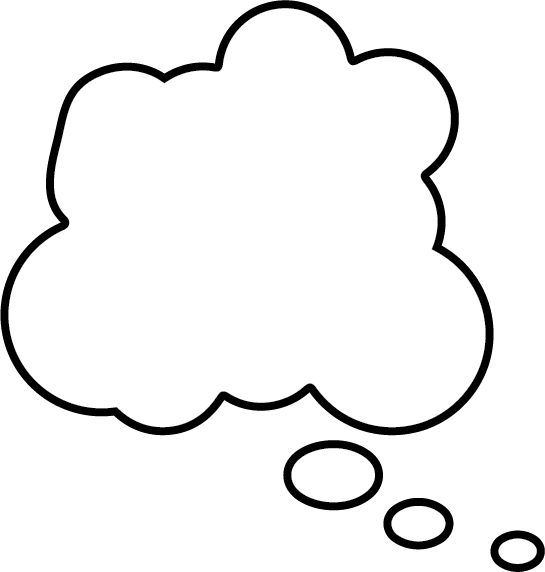
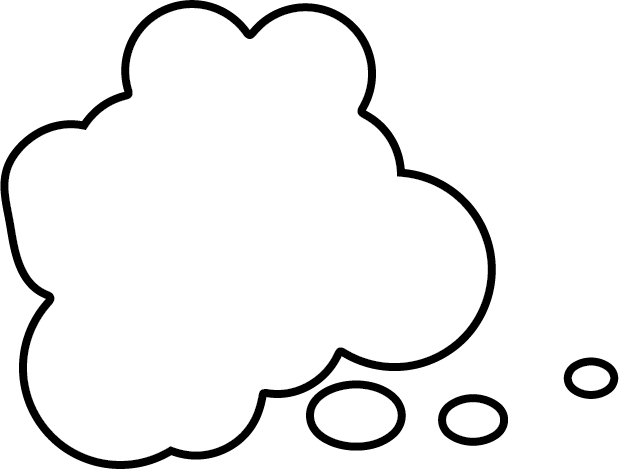
Pick Burns or Penny once per launch, with a bigger thought bubble.

Changed region(s): [[0.0, 0.0, 0.9046, 1.0], [0.9046, 0.7463, 1.0, 0.8657], [0.8734, 0.9254, 1.0, 1.0]]

diff --git a/frontend/lib/core/widgets/penny_on_button.dart b/frontend/lib/core/widgets/penny_on_button.dart
@@ -4,7 +4,7 @@ import 'package:flutter/material.dart';
 
 import 'penny_thoughts.dart';
 
-/// Penny con le zampe sul bordo del bottone e nuvoletta piccola, inclinata.
+/// Penny con le zampe sul bordo del bottone e nuvoletta grande, inclinata.
 class PennyOnButton extends StatefulWidget {
   const PennyOnButton({super.key});
 
@@ -58,23 +58,23 @@ class _PennyOnButtonState extends State<PennyOnButton>
     return AnimatedBuilder(
       animation: Listenable.merge([_idle, _enter]),
       builder: (context, _) {
-        final bob = math.sin(_idle.value * math.pi) * 1.6;
+        final bob = math.sin(_idle.value * math.pi) * 1.8;
         final appear = Curves.easeOut.transform(_enter.value);
         return SizedBox(
-          width: 128,
-          height: 96,
+          width: 228,
+          height: 158,
           child: Stack(
             clipBehavior: Clip.none,
             children: [
               Positioned(
-                right: 4,
+                right: 2,
                 bottom: 0,
                 child: Transform.translate(
                   offset: Offset(0, -bob),
                   child: Image.asset(
                     'assets/mascot/penny.png',
-                    width: 52,
-                    height: 52,
+                    width: 82,
+                    height: 82,
                     fit: BoxFit.contain,
                     filterQuality: FilterQuality.high,
                     semanticLabel: 'Penny',
@@ -82,33 +82,19 @@ class _PennyOnButtonState extends State<PennyOnButton>
                 ),
               ),
               Positioned(
-                right: 30,
+                left: 0,
                 top: 0,
-                width: 98,
-                height: 62,
+                width: 178,
+                height: 126,
                 child: Opacity(
                   opacity: appear,
                   child: Transform.rotate(
-                    angle: -0.18,
+                    angle: -0.08,
                     alignment: Alignment.bottomRight,
                     child: Transform.scale(
-                      scale: 0.92 + appear * 0.08,
+                      scale: 0.94 + appear * 0.06,
                       alignment: Alignment.bottomRight,
-                      child: Stack(
-                        fit: StackFit.expand,
-                        children: [
-                          Image.asset(
-                            'assets/mascot/nuvoletta.png',
-                            fit: BoxFit.contain,
-                            alignment: Alignment.center,
-                            filterQuality: FilterQuality.high,
-                          ),
-                          const Padding(
-                            padding: EdgeInsets.fromLTRB(22, 14, 22, 24),
-                            child: _ThoughtText(),
-                          ),
-                        ],
-                      ),
+                      child: const _ThoughtBubble(),
                     ),
                   ),
                 ),
@@ -117,6 +103,30 @@ class _PennyOnButtonState extends State<PennyOnButton>
           ),
         );
       },
+    );
+  }
+}
+
+class _ThoughtBubble extends StatelessWidget {
+  const _ThoughtBubble();
+
+  @override
+  Widget build(BuildContext context) {
+    return Stack(
+      fit: StackFit.expand,
+      children: [
+        Image.asset(
+          'assets/mascot/nuvoletta.png',
+          fit: BoxFit.contain,
+          alignment: Alignment.center,
+          filterQuality: FilterQuality.high,
+        ),
+        // Inset stays inside the white cloud, away from the scalloped edge.
+        const Padding(
+          padding: EdgeInsets.fromLTRB(40, 32, 46, 48),
+          child: Center(child: _ThoughtText()),
+        ),
+      ],
     );
   }
 }
@@ -132,9 +142,9 @@ class _ThoughtText extends StatelessWidget {
         final maxW = box.maxWidth;
         final maxH = box.maxHeight;
         if (maxW <= 0 || maxH <= 0) return const SizedBox.shrink();
-        var size = 8.5;
+        var size = 11.0;
         TextPainter? painter;
-        while (size >= 5.5) {
+        while (size >= 6.0) {
           painter = TextPainter(
             text: TextSpan(
               text: phrase,
@@ -142,7 +152,7 @@ class _ThoughtText extends StatelessWidget {
                 color: const Color(0xFF16181D),
                 fontSize: size,
                 fontWeight: FontWeight.w800,
-                height: 1.12,
+                height: 1.08,
               ),
             ),
             textAlign: TextAlign.center,
@@ -153,18 +163,25 @@ class _ThoughtText extends StatelessWidget {
           final tooTall = painter.height > maxH + 0.5;
           final tooWide = painter.didExceedMaxLines;
           if (!tooTall && !tooWide) break;
-          size -= 0.4;
+          size -= 0.35;
         }
-        return Text(
-          phrase,
-          textAlign: TextAlign.center,
-          maxLines: 3,
-          overflow: TextOverflow.ellipsis,
-          style: TextStyle(
-            color: const Color(0xFF16181D),
-            fontSize: size,
-            fontWeight: FontWeight.w800,
-            height: 1.12,
+        return FittedBox(
+          fit: BoxFit.scaleDown,
+          alignment: Alignment.center,
+          child: SizedBox(
+            width: maxW,
+            child: Text(
+              phrase,
+              textAlign: TextAlign.center,
+              maxLines: 3,
+              overflow: TextOverflow.ellipsis,
+              style: TextStyle(
+                color: const Color(0xFF16181D),
+                fontSize: size,
+                fontWeight: FontWeight.w800,
+                height: 1.08,
+              ),
+            ),
           ),
         );
       },

diff --git a/frontend/lib/features/home/home_page.dart b/frontend/lib/features/home/home_page.dart
@@ -1,5 +1,3 @@
-import 'dart:async';
-
 import 'package:flutter/material.dart';
 import 'package:flutter_riverpod/flutter_riverpod.dart';
 import 'package:go_router/go_router.dart';
@@ -11,6 +9,7 @@ import '../../core/widgets/app_card.dart';
 import '../../core/widgets/empty_state.dart';
 import '../../core/widgets/eccellente_badge.dart';
 import '../../core/widgets/penny_on_button.dart';
+import '../../core/widgets/penny_thoughts.dart';
 import '../../core/widgets/money_text.dart';
 import '../../core/widgets/person_avatar.dart';
 import '../../core/widgets/status_chip.dart';
@@ -329,56 +328,16 @@ class _OpenTaskCard extends StatelessWidget {
   }
 }
 
-class _HeroBalance extends StatefulWidget {
+class _HeroBalance extends StatelessWidget {
   const _HeroBalance({required this.colors, required this.snap});
 
   final AppColors colors;
   final BalanceSnapshot snap;
 
   @override
-  State<_HeroBalance> createState() => _HeroBalanceState();
-}
-
-class _HeroBalanceState extends State<_HeroBalance> {
-  bool _penny = false;
-  Timer? _swap;
-
-  bool get _canLoop {
-    if (MediaQuery.maybeDisableAnimationsOf(context) ?? false) return false;
-    return !WidgetsBinding.instance.runtimeType
-        .toString()
-        .contains('TestWidgetsFlutterBinding');
-  }
-
-  @override
-  void initState() {
-    super.initState();
-    WidgetsBinding.instance.addPostFrameCallback((_) {
-      if (!mounted || !_canLoop) return;
-      _armSwap();
-    });
-  }
-
-  void _armSwap() {
-    _swap?.cancel();
-    _swap = Timer(_penny ? const Duration(seconds: 11) : const Duration(seconds: 8), () {
-      if (!mounted) return;
-      setState(() => _penny = !_penny);
-      _armSwap();
-    });
-  }
-
-  @override
-  void dispose() {
-    _swap?.cancel();
-    super.dispose();
-  }
-
-  @override
   Widget build(BuildContext context) {
-    final colors = widget.colors;
-    final snap = widget.snap;
     final even = snap.isEven;
+    final penny = PennySession.showPenny;
     return Container(
       width: double.infinity,
       padding: const EdgeInsets.fromLTRB(16, 8, 16, 8),
@@ -402,7 +361,7 @@ class _HeroBalanceState extends State<_HeroBalance> {
               ),
               const SizedBox(height: 2),
               Padding(
-                padding: const EdgeInsets.only(right: 86),
+                padding: EdgeInsets.only(right: penny ? 108 : 86),
                 child: Text(
                   even
                       ? 'Siete in pari'
@@ -419,7 +378,7 @@ class _HeroBalanceState extends State<_HeroBalance> {
               if (!even) ...[
                 const SizedBox(height: 4),
                 Padding(
-                  padding: const EdgeInsets.only(right: 86),
+                  padding: EdgeInsets.only(right: penny ? 108 : 86),
                   child: Text.rich(
                     TextSpan(
                       style: TextStyle(
@@ -492,16 +451,16 @@ class _HeroBalanceState extends State<_HeroBalance> {
               ),
             ],
           ),
-          if (!_penny)
+          if (!penny)
             const Positioned(
               right: -6,
               top: -6,
               child: IgnorePointer(child: EccellenteBadge(size: 64)),
             ),
-          if (_penny)
+          if (penny)
             const Positioned(
-              right: 2,
-              bottom: 20,
+              right: 0,
+              bottom: 18,
               child: IgnorePointer(child: PennyOnButton()),
             ),
         ],

diff --git a/frontend/lib/core/widgets/penny_thoughts.dart b/frontend/lib/core/widgets/penny_thoughts.dart
@@ -55,13 +55,20 @@ const List<String> pennyThoughts = [
   'Piano geniale. Dettagli top secret.',
 ];
 
-/// Una frase per processo: cambia solo chiudendo e riaprendo l’app.
+/// Personaggio e frase per processo: cambiano solo chiudendo e riaprendo l’app.
 class PennySession {
   static String? _phrase;
+  static bool? _showPenny;
   static final _rng = math.Random();
+
+  /// `true` = Penny, `false` = Burns. Scelto una volta all’avvio.
+  static bool get showPenny => _showPenny ??= _rng.nextBool();
 
   static String get phrase =>
       _phrase ??= pennyThoughts[_rng.nextInt(pennyThoughts.length)];
 
-  static void resetForTest() => _phrase = null;
+  static void resetForTest({bool? showPenny}) {
+    _phrase = null;
+    _showPenny = showPenny;
+  }
 }

diff --git a/frontend/test/overflow_smoke_test.dart b/frontend/test/overflow_smoke_test.dart
@@ -9,6 +9,7 @@ import 'package:brotherapp/data/data_providers.dart';
 import 'package:brotherapp/data/expense_models.dart';
 import 'package:brotherapp/features/auth/auth_providers.dart';
 import 'package:brotherapp/features/auth/auth_repository.dart';
+import 'package:brotherapp/core/widgets/penny_thoughts.dart';
 import 'package:brotherapp/features/home/home_page.dart';
 import 'package:brotherapp/router/app_router.dart';
 
@@ -64,6 +65,10 @@ Future<void> _pumpShell(
 void main() {
   setUpAll(() async {
     await AppDateFormat.ensureInitialized();
+  });
+
+  setUp(() {
+    PennySession.resetForTest(showPenny: false);
   });
 
   for (final width in [360.0, 390.0, 412.0]) {

diff --git a/frontend/test/penny_thoughts_test.dart b/frontend/test/penny_thoughts_test.dart
@@ -20,4 +20,18 @@ void main() {
     expect(PennySession.phrase, first);
     expect(PennySession.phrase, first);
   });
+
+  test('mascot stays the same until the app is closed', () {
+    PennySession.resetForTest();
+    final first = PennySession.showPenny;
+    expect(PennySession.showPenny, first);
+    expect(PennySession.showPenny, first);
+  });
+
+  test('resetForTest can pin Burns or Penny', () {
+    PennySession.resetForTest(showPenny: false);
+    expect(PennySession.showPenny, isFalse);
+    PennySession.resetForTest(showPenny: true);
+    expect(PennySession.showPenny, isTrue);
+  });
 }

diff --git a/frontend/lib/core/config/app_config.dart b/frontend/lib/core/config/app_config.dart
@@ -21,8 +21,8 @@ class AppConfig {
   ];
 
   /// Keep in sync with `pubspec.yaml` `version:`.
-  static const String appVersion = '1.0.6';
-  static const int appBuild = 9;
+  static const String appVersion = '1.0.7';
+  static const int appBuild = 10;
 
   static const String githubOwner = 'robmass83-ui';
   static const String githubRepo = 'Masala-Brother-App';
